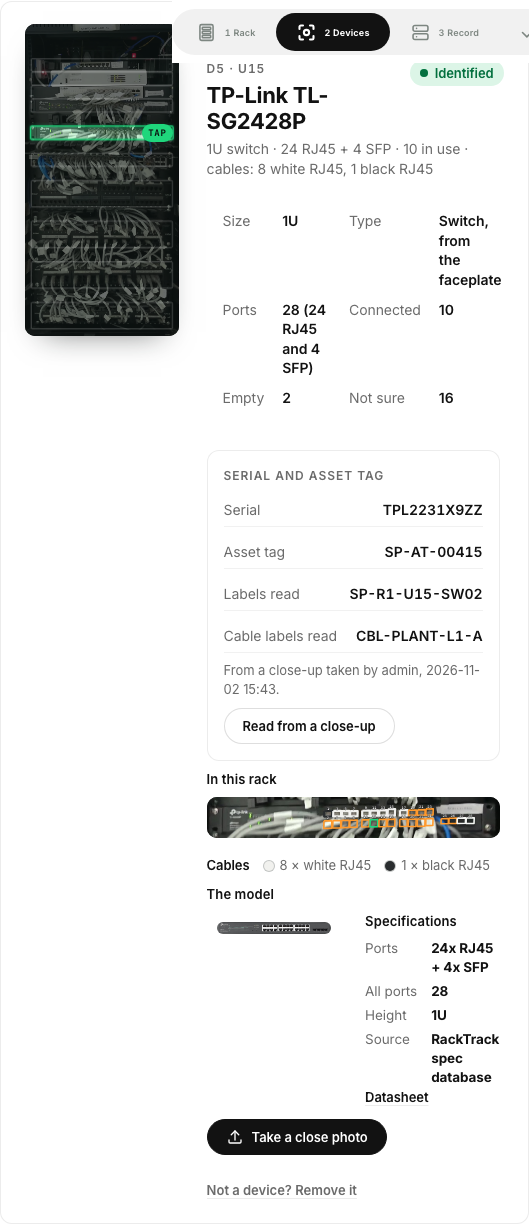
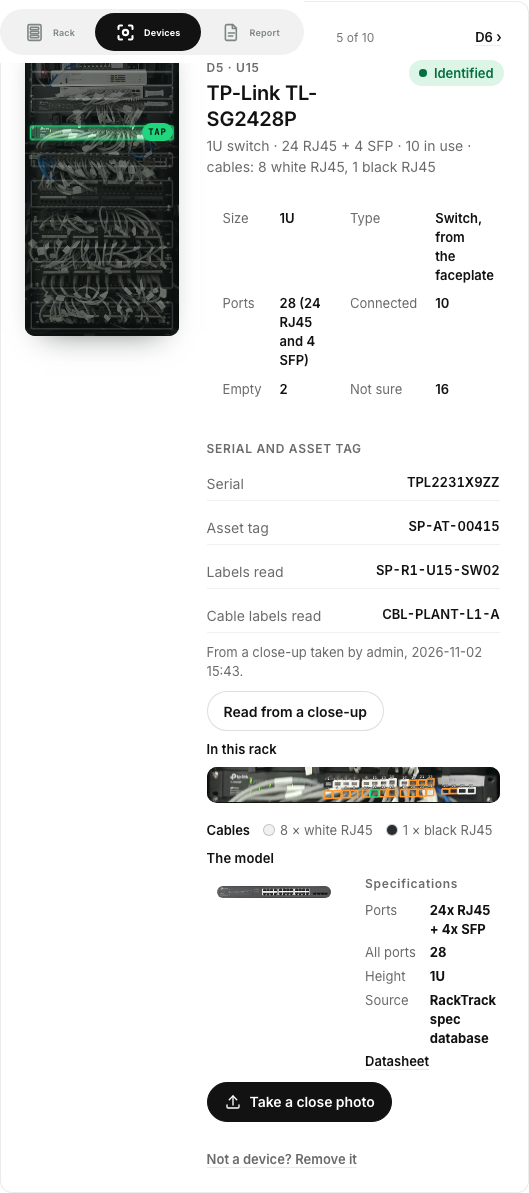
Features proof again on the merged branch: the rack tools as a section inside the Report, the compare with the location step, ids_only checked on the engine, the read again outcome and what it still needs in docs/FEATURES.md

diff --git a/tools/proof_features.py b/tools/proof_features.py
@@ -128,8 +128,10 @@ def screens(engine, user, pw):
             pg.click('#dv-list .prow[data-dev="5"]'); pg.wait_for_selector(".ft-ids", timeout=15000); pg.wait_for_timeout(1500)
             pg.locator(".ft-ids").scroll_into_view_if_needed(); pg.wait_for_timeout(400)
             pg.locator("#res-dev").screenshot(path=str(OUT / f"device_ids_{width}.png"))          # the device card only (the page is long)
-            pg.goto(f"{engine}/app/#result/{RUN}/record"); pg.wait_for_timeout(5000)
-            pg.locator("#res-record").screenshot(path=str(OUT / f"record_location_{width}.png"))  # step 3 with the identification steps
+            pg.goto(f"{engine}/app/#result/{RUN}/report"); pg.wait_for_timeout(5000)
+            pg.locator("#sec-compare").screenshot(path=str(OUT / f"record_location_{width}.png"))  # the compare in the Report, with the identification steps
+            pg.locator("#sec-tools").scroll_into_view_if_needed(); pg.wait_for_timeout(500)
+            pg.locator("#sec-tools").screenshot(path=str(OUT / f"report_tools_{width}.png"))       # the rack tools as a section inside the Report
             pg.close()
         b.close()
     return errors

diff --git a/docs/FEATURES.md b/docs/FEATURES.md
@@ -4,7 +4,7 @@ One rack: SP-HYD-RM01-R01-R1, the stored run of vdo1 (run 91af02c09bbc, copied f
 
 Code: `src/rt_features.py` (copied from RT-EOS, see its header for each function's source), the block marked `wt/features` in `server/app.py`, a few marked lines in `src/source_db.py`, `mobile/features.js` and `mobile/features.css` with marked lines in `mobile/index.html` and `mobile/app.js`.
 
-Proof: `tests/test_rt_features.py` (6 tests, no model), `tools/proof_features.py` (API answers into `docs/proof/features/results.json`, screens at 1280 and 400 px into `docs/proof/features/`), `tools/plant_features_workbook.py` (the planted workbook), `tools/make_synthetic_closeup.py` (the synthetic close-ups).
+Proof: `tests/test_rt_features.py` (7 tests, no model; the whole suite 111 passed after the merge), `tools/proof_features.py` (API answers into `docs/proof/features/results.json`, screens at 1280 and 400 px into `docs/proof/features/`), `tools/plant_features_workbook.py` (the planted workbook), `tools/make_synthetic_closeup.py` (the synthetic close-ups).
 
 ## 1 Serials and asset tags from close-ups
 
@@ -12,7 +12,7 @@ Proof: `tests/test_rt_features.py` (6 tests, no model), `tools/proof_features.py
 - Kept on the device (`ids`, `serial`, `asset_tag`, `label_read`) with the picture, who and when. The device page shows them with a Read from a close-up button (it sends `ids_only`, so a label photo does not replace the device's port layout).
 - The drift: Wrong serial (existing) and Wrong asset tag (new, type `asset_tag`). The identification: step 3 counts serials and asset tags, step 5 reads the rack number in the device label.
 - Proof: a real crop of D5 from the vdo1 run (section_D5_clean.jpg) read "Pip-link AM": no serial on any picture of the video, as expected. Then the synthetic close-up `docs/proof/features/synthetic_closeup_D5.jpg` read serial TPL2231X9ZZ, asset tag SP-AT-00415, label SP-R1-U15-SW02 and cable label CBL-PLANT-L1-A; D4's read SGP2231A0BC. The drift showed "SP-R1-U15-SW02 has serial PLANTED0001 in the record; the video reads TPL2231X9ZZ." and the asset tag row; step 3 "3 serial or asset tags read", step 5 "Device labels read: SP-R1-U15-SW02; rack number 1". Screens device_ids_*.png, record_location_*.png.
-- Note: those close-ups were sent before `ids_only` existed, so the existing close-up reader also re-laid D4's and D5's ports from them; those layouts were taken out of the run by hand (the ids stayed). `ids_only` itself is covered by the code path only, not yet by a run on the engine.
+- Note: the first close-ups were sent before `ids_only` existed, so the existing close-up reader also re-laid D4's and D5's ports from them; those layouts were taken out of the run by hand (the ids stayed). After the merge, D4's synthetic close-up sent again with `ids_only` read SGP2231A0BC and left the port layout alone (checked on the engine).
 
 ## 2 Location
 
@@ -27,7 +27,7 @@ Proof: `tests/test_rt_features.py` (6 tests, no model), `tools/proof_features.py
 - POST /api/cables/az {a, z}: checks.js's A-end / Z-end check of two runs (the same run at both ends is allowed); GET /api/cables/az/<id>.csv, checks.js's CSV.
 - Proof with the planted workbook (19 rows, every one marked PLANTED in Notes, Z ends in a rack not filmed): Missing cable on port 2 of SP-R1-U20-ACT, Extra cable on port 23 of SP-R1-U17-SW03, Wrong port 21 to 24 on SP-R1-U18-SW04, Wrong port for CBL-PLANT-L1 (its label read on the D5 close-up). A-Z check: 1 wrong port, 2 missing cable, 16 label not found, CSV in docs/proof/features/az_check.csv. Screens cables_*.png, cables_az_*.png.
 
-## 4 The run's tools (step 6 of the result, #tools/<run>/<tool>)
+## 4 The run's tools (a section More on this rack inside the Report, each tool a screen at #tools/<run>/<tool>)
 
 | Tool | Route | Screens |
 | --- | --- | --- |
@@ -39,7 +39,7 @@ Proof: `tests/test_rt_features.py` (6 tests, no model), `tools/proof_features.py
 | SFP advice | GET sfp-advice | sfp_advice_* |
 | Topology | GET topology (RT-EOS RackTopology detail with the matrix's cables) | topology_* |
 
-Known: the Connections screenshots were taken before port type rows were attached to their device (fixed after, test covered). SFP advice takes the matrix's cable type as RT-EOS does, so a Cat6 row is offered as the cable for an SFP port.
+Read again ran on the engine before the merge: devices 1 to 6 (the switches, router and firewall) were read again with the current models, 4 to 7 port states changed per switch (D1 port 2 no longer reads empty, so the planted Missing cable goes away after a read again); devices 7 to 10 (patch panels) did not finish: the patch panel reader needs patchpanel_classify_overlay/port_model.pt, an untracked model file that is in the main checkout but was not linked into this worktree. The proof's run was put back to its state before the read again. A read again on 8700 (main checkout) has the file. SFP advice takes the matrix's cable type as RT-EOS does, so a Cat6 row is offered as the cable for an SFP port.
 
 ## 5 The phone app
 
